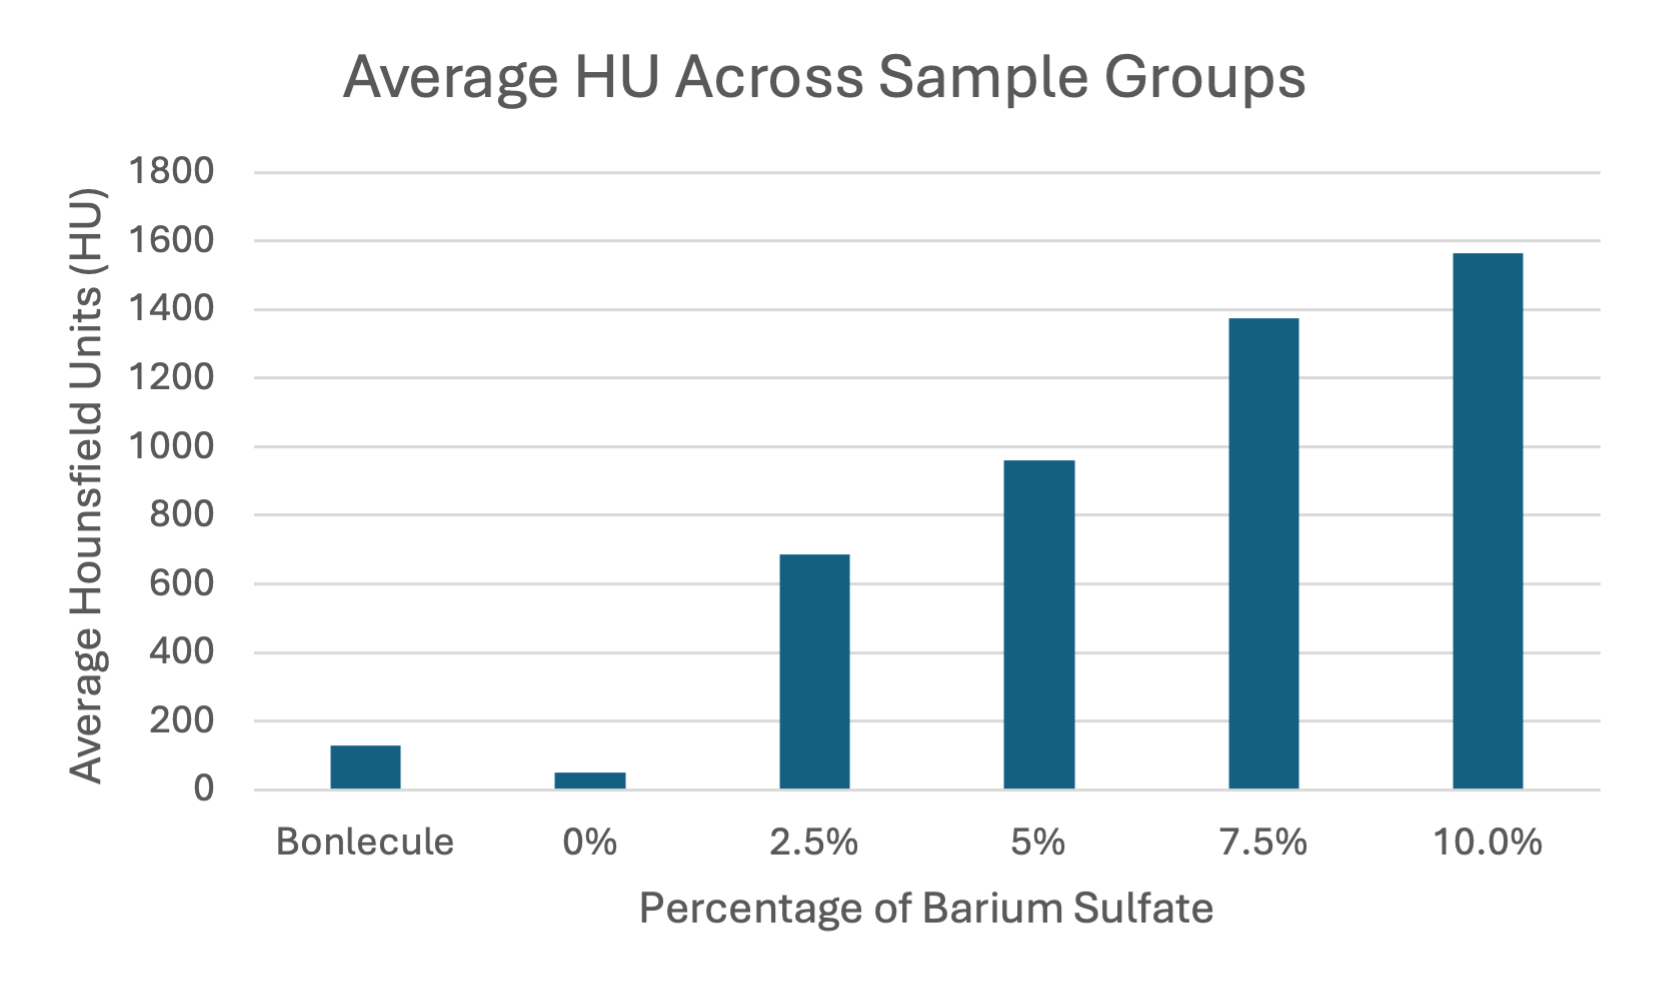
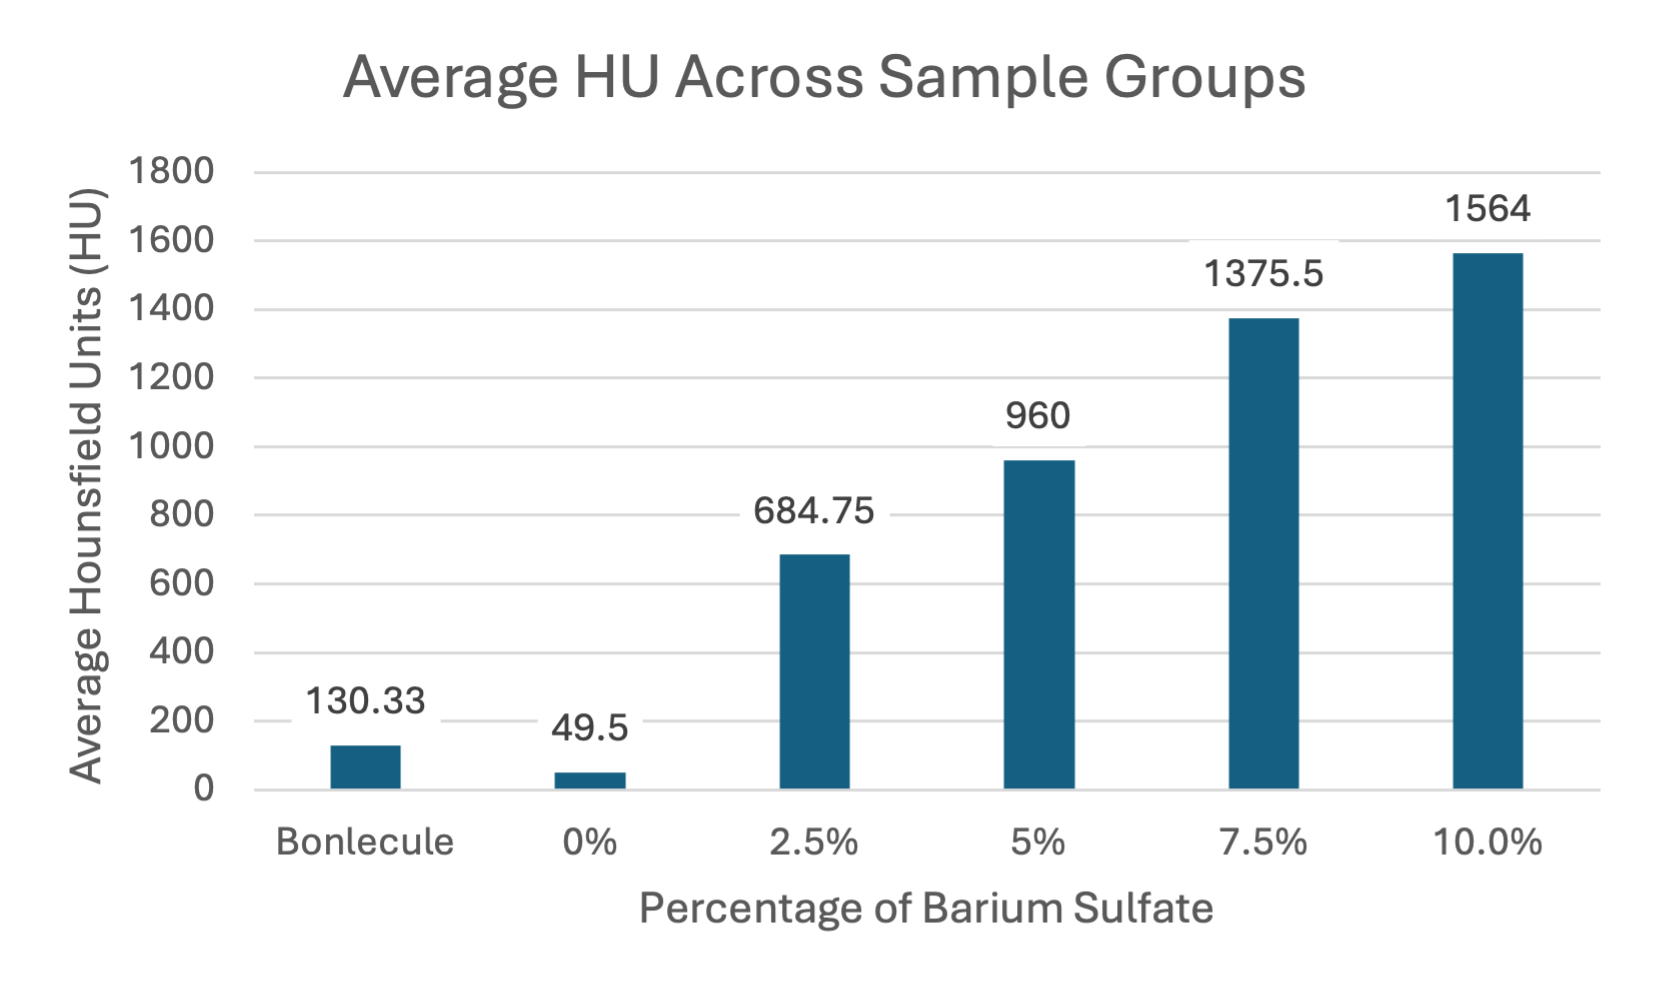
Finished imaging study

diff --git a/src/discussion/effectsOfBaSO4.tex b/src/discussion/effectsOfBaSO4.tex
@@ -1,7 +1,41 @@
 \section{Evaluating Effects of Barium Sulfate Discussion\label{sec:discussion:effectsOfBaSO4}}
 
 \subsection{Imaging Study Discussion\label{sec:discussion:effectsOfBaSO4:imagingStudy}}
-\hl{STOPPED HERE!}
+
+\paragraph*{Successful Incorporation of Barium Sulfate}
+
+The imaging study illustrated that barium sulfate was successfully incorporated into the PLA filament. As the barium sulfate concentration increased from 0\% to 10\%, the Hounsfield Units (HU) steadily increased as well. This proves that the barium sulfate was properly mixed into the composite filament. Thus, this is a usable methodology of extruding and printing barium sulfate with a raw material.
+
+Based on the growing radiopacity of each sample and comparison to Bonlecule filament, this imaging study illustrated that the established filament creation methodology results in similarly incorporated material as a commercially available filament.
+
+\paragraph*{Radiopacity of Bonlecule Filament}
+
+Based on the imaging study results, the bonlecule filament had a radiopacity between that of 0\% and 2.5\% barium sulfate. Interpolating the results and assuming radiopacity is roughly linearly proportional to percentage of barium sulfate, Equation~\eqref{eq:interpolatingBaSO4Results} can be used to estimate how much barium sulfate concentration the bonlecule filament compares to.
+
+\begin{equation}
+        BaSO_4(estimated\%) = \frac{HU_{Bonlecule}}{HU_{2.5\%} - HU_{0\%}} * (2.5\% - 0\%)
+        \label{eq:interpolatingBaSO4Results}
+\end{equation}
+
+Using Equation~\eqref{eq:interpolatingBaSO4Results} and the results of the imaging study, it is estimated that the Bonlecule filament would measure similarly to a 0.513\% concentration of barium sulfate.
+
+This metric is helpful to know as the optimal concentration of barium sulfate is determined. If more than 0.513\% barium sulfate is required for radiological imaging needs, then the Bonlecule filament cannot be utilized for further testing and development. However, if 0.513\% or roughly 133HU is adequate from an imaging perspective, then this filament can be utilized in lieu of extruding a custom filament.
+
+Mechanical testing was also performed to evaluate how the Bonlecule filament compares to barium sulfate-infused PLA filament.
+
+\paragraph*{Required Amount of Barium Sulfate}
+
+According to radiation oncology staff at OSUCCC, an HU difference of roughly 300 is recommended for ideal contrast between the implanted device and the surrounding tissue. According to OSUCCC, breast tissue has an HU of roughly -100, but a seroma formation has the density of water (0 HU). Thus, a 300HU contrast would require an implant exhibiting 200 to 300 HU.
+
+Based on the results of this imaging study, the Bonlecule filament at 130 HU may be too low, while the 2.5\% barium sulfate filament at 685 HU may be too high and provide excessive contrast. Thus, future testing should be conducted using concentrations between 0\% and 2.5\% barium sulfate. Additionally, however, a thinner sample will lower the apparent HU value, according to OSUCCC staff, so testing should also be conducted with samples that are closer to the projected thickness of the final implant.
+
+\paragraph*{Key Takeaways}
+
+The imaging study illustrated that barium sulfate was successfully incorporated into the PLA filament. Also, as the concentration of barium sulfate increased, the relative HU value of the samples increased as well.
+
+The Bonlecule filament exhibited an HU value between 0\% and 2.5\% barium sulfate samples.
+
+Additionally, based on these HU values, a concentration of barium sulfate between 0\% and 2.5\% should be used to provide adequate contrast between the implant and surrounding tissue. This may need to be adjusted, however, for thinner imaging samples.
 
 \subsection{Tensile Testing Discussion\label{sec:discussion:effectsOfBaSO4:tensileTesting}}
 

diff --git a/src/methodology/effectsOfBaSO4.tex b/src/methodology/effectsOfBaSO4.tex
@@ -19,11 +19,9 @@ The various 3D printed samples for imaging are shown below in Figure~\ref{fig:me
         \label{fig:methodology:effectsOfBaSO4:imagingStudySamples}
 \end{figure}
 
-\subsection{Bonlecule Filament\label{sec:methodology:effectsOfBaSO4:imagingStudy:bonlecule}}
+\subsubsection{Bonlecule Filament\label{sec:methodology:effectsOfBaSO4:imagingStudy:bonlecule}}
 
 In addition to the custom-made PLA/BaSO\textsubscript{4} filaments, a commercially made radiopaque filament, Bonlecule, was also tested. A sample of this filament was sent from NOVUS~\cite{RefWorks:RefID:78-bonlecule}.
-
-\subsubsection{3D Printing Bonlecule Filament\label{sec:methodology:effectsOfBaSO4:imagingStudy:bonlecule:printing}}
 
 To 3D print Bonlecule, printing parameters from the manufacturer were used based initially on PLA Marble presets. Table~\ref{tab:methodology:bonleculeParameters} summarizes the final printing parameters used for this filament. Additionally, following manufacturer suggestions, glue was applied to the build plate to improve build plate adhesion.
 
